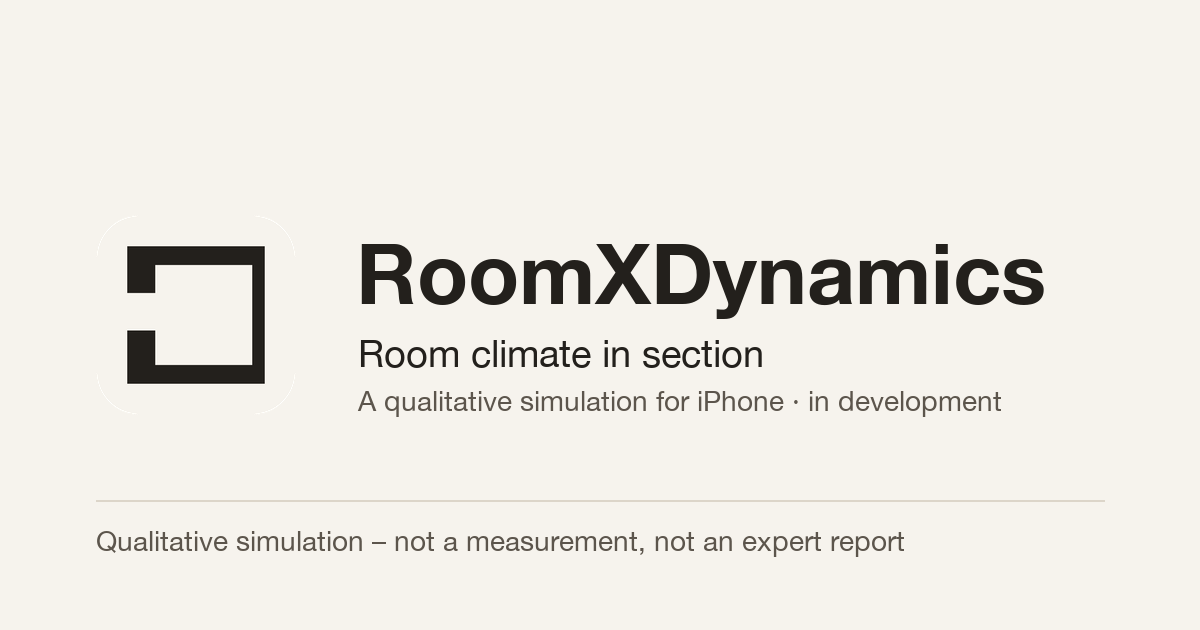
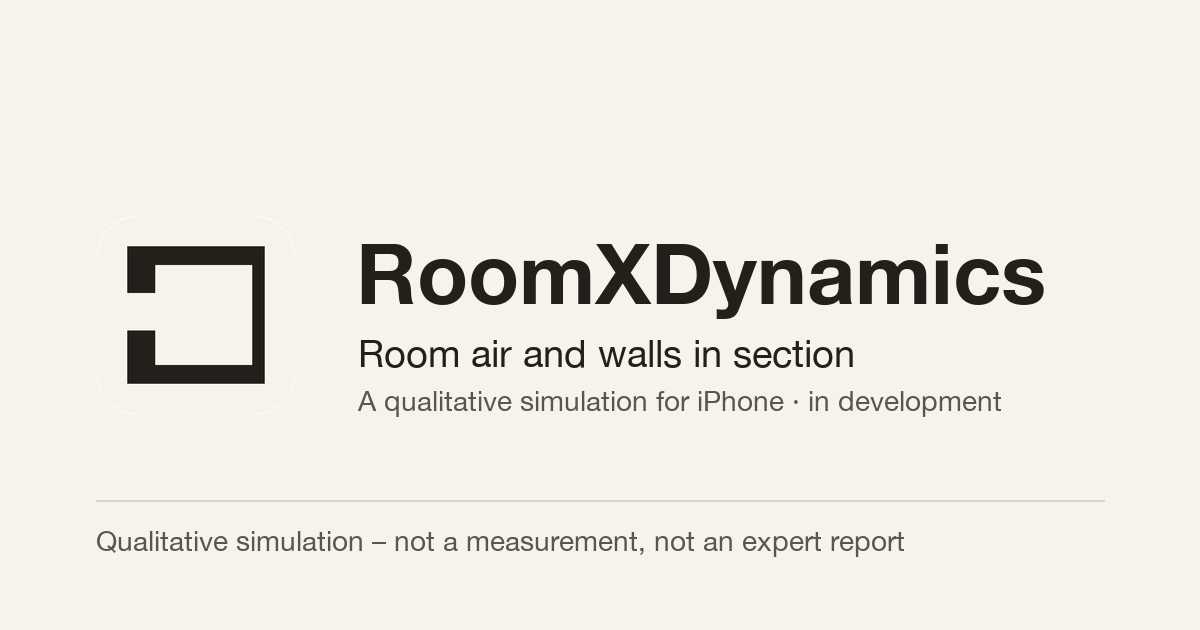
Remove felt-temperature card and wording, link FlatSixDynamics
- home: drop the window and felt-temperature card and its "What you see" item,
  lead without "three views", "trends" instead of "tendencies"
- tagline and footer: room air and wall surfaces, trends
- method: drop the perceived-temperature paragraph
- social card: "Room air and walls in section"
- "From the makers of" line: text link to FlatSixDynamics, MachXDynamics as text
- comments without internal IDs

Changed region(s): [[0.4008, 0.5429, 0.7092, 0.6032]]

diff --git a/src/assets/css/site.css b/src/assets/css/site.css
@@ -233,7 +233,7 @@ hr { border: 0; border-top: 1px solid var(--rule); margin: 2.5rem 0; }
     .shot .badge { font-size: 0.64rem; padding: 0.15rem 0.4rem; white-space: nowrap; }
 }
 
-/* Drei gleichrangige Karten, eine je Ansicht (RX-F24): gleiche Breite, gleiche Gestaltung */
+/* Equal-ranked cards, one per view: same width, same design. */
 .cards {
     display: grid;
     grid-template-columns: repeat(auto-fit, minmax(13rem, 1fr));
